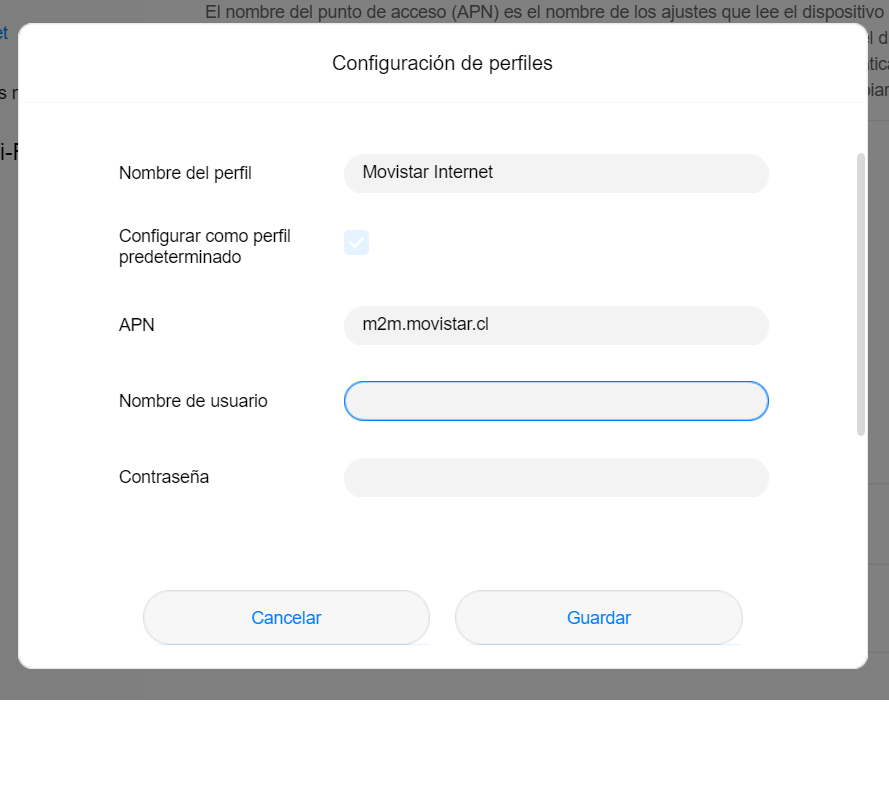
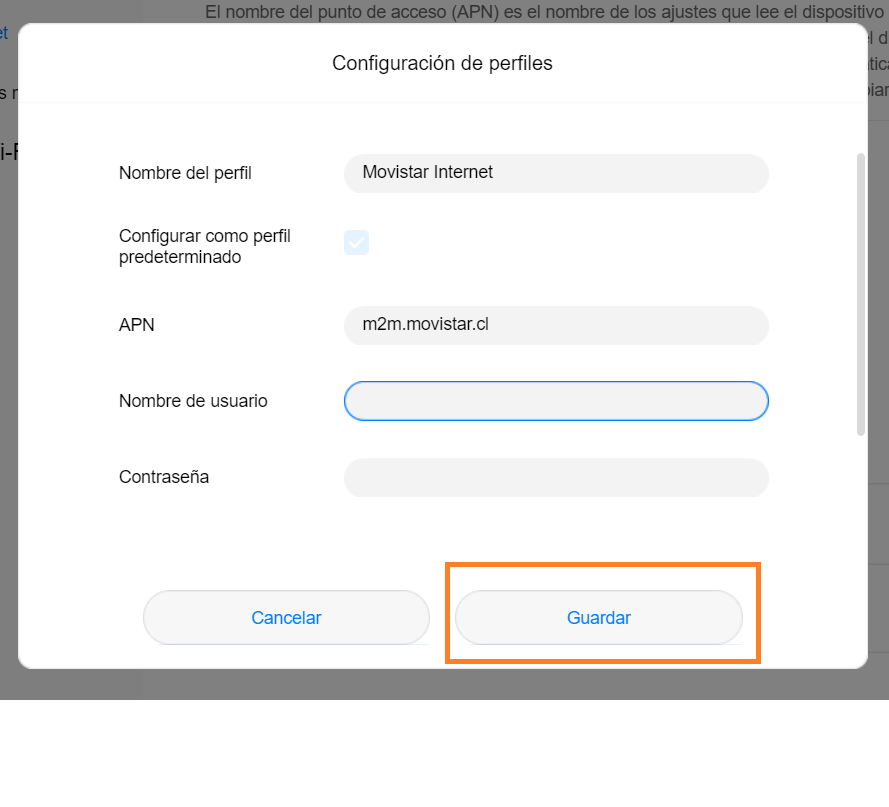
guia problemas modem

Changed region(s): [[0.4859, 0.6815, 0.8808, 0.8364]]

diff --git a/docs/problemas-huawei.md b/docs/problemas-huawei.md
@@ -3,4 +3,56 @@ id: problemas-huawei
 title: Posibles problemas y soluciones modem HUAWEI.
 ---
 
-## Pronto
+
+Índice
+
+1. [Creación del perfil falla](#1-creación-del-perfil-falla)
+2. [No puedo acceder a la página](#2-no-puedo-acceder-a-la-página)
+3. [Volver a los valores de fabrica](#3-volver-a-los-valores-de-fabrica)
+
+## 1. Creación del perfil falla
+
+Si llega hasta la parte final del tutorial y aun no cuenta con acceso a internet, es posible que los datos del perfil creado estén con algún problema. Para ello diríjase a la siguiente sección como muestra en la imagen.
+
+![Screenshot](./img/modem-huawei/ajustesRed.png)
+
+La diferencia con esta sección es que, entre los perfiles creados, debe aparecer uno cuyo nombre es “Movistar internet”. Al encontrarlo, debe editar los datos, si no se encuentra, debe crear un nuevo perfil en el “+” que aparece en la imagen anterior. Los datos que debe ingresar son los siguientes:
+
+Nombre del perfil: Movistar Internet
+
+APN: m2m.movistar.cl
+
+:::caution Asegúrese de que no exista ningún espacio en el campo **APN**, ya que algunas formas de escritura suelen incorporar un espacio luego de un punto. :::
+
+Luego de ingresar los datos, debe guardar y salir, con este cambio en unos minutos tendrá acceso a internet.
+
+![Screenshot](./img/modem-huawei/datosPerfil.png)
+
+
+
+## 2. No puedo acceder a la página
+
+Se muestra la pagina web o pagina de inicio a continuación.
+
+![Screenshot](./img/modem-huawei/portada.png)
+
+Durante la configuración del modem, existe un paso donde cambia la clave de entrada a la pagina web.
+
+![Screenshot](./img/modem-huawei/configuracion-contraseña.png)
+
+En la imagen anterior se muestra cómo se cambio la clave de inicio en la página. Por lo tanto, para ingresar a la pagina de inicio, debe ingresar la **KEY** como contraseña (referente a los datos extraídos del dispositivo modem).
+
+Si la clave **Key** no le funciona para ingresar a la página, lea la sección que viene a continuación.
+
+## 3. Volver a los valores de fabrica
+
+Si cuenta con problemas de acceso ya se a acceso a pagina web de inicio o intentando conectarse a la red del modem. Se sugiere reiniciar el modem a su estado de fábrica. Para ello debe presionar el botón que se en la zona que muestra la siguiente imagen.
+
+![Screenshot](./img/modem-huawei/reset.jpeg)
+
+Luego de reiniciar el modem, puede volver a intentar los pasos de la [guía] de manera normal.
+
+[guía]: ./manual-lifewareintegra.md
+
+:::caution Asegúrese de presionar el botón mientras el dispositivo se encuentra encendido, es decir mientras esta la batería conectada y la luz de encendido permanezca en su lugar. :::
+:::warning Tenga presente que, se puede salir la batería mientras intenta presionar el botón de reinicio a su estado de fábrica. :::
